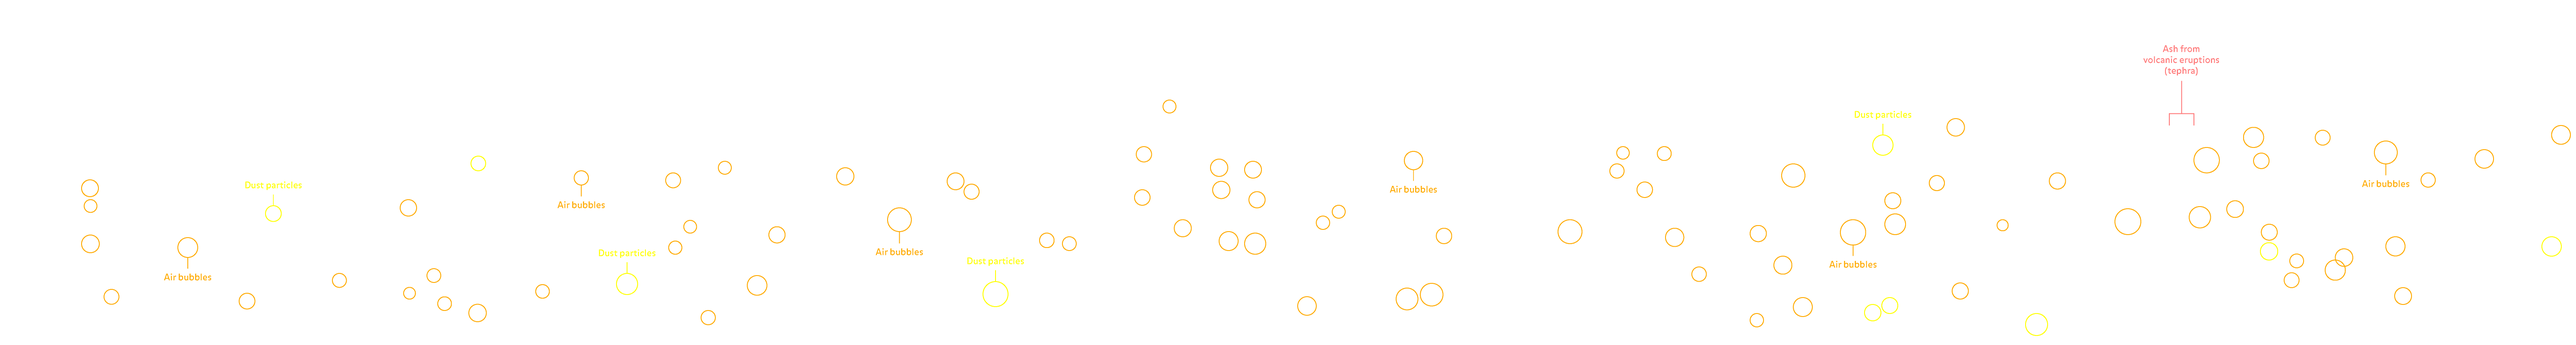
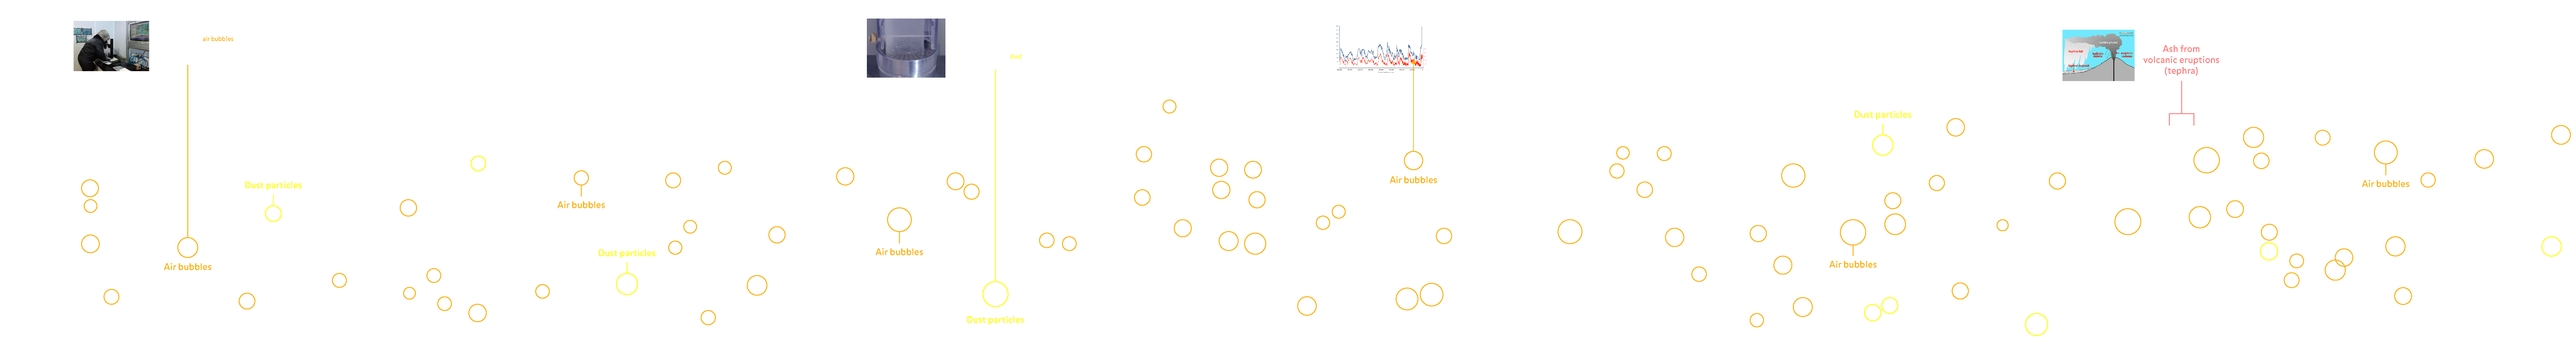
ice core b: add annotations, update layers style, add inset shadow

diff --git a/ice-core-b/css/app.css b/ice-core-b/css/app.css
@@ -49,6 +49,7 @@ body {
   box-sizing: border-box;
   border-left: 5px solid rgba(0,0,0,0.5);
   border-right: 5px solid rgba(0,0,0,0.5);
+  box-shadow: 0 20vh 10vh 10vh rgba(255, 255, 255, 0.1) inset;
   overflow: hidden;
 }
 
@@ -77,6 +78,7 @@ body {
   left: auto;
   right: -420px;
   text-align: left;
+
 }
 
 .content {
